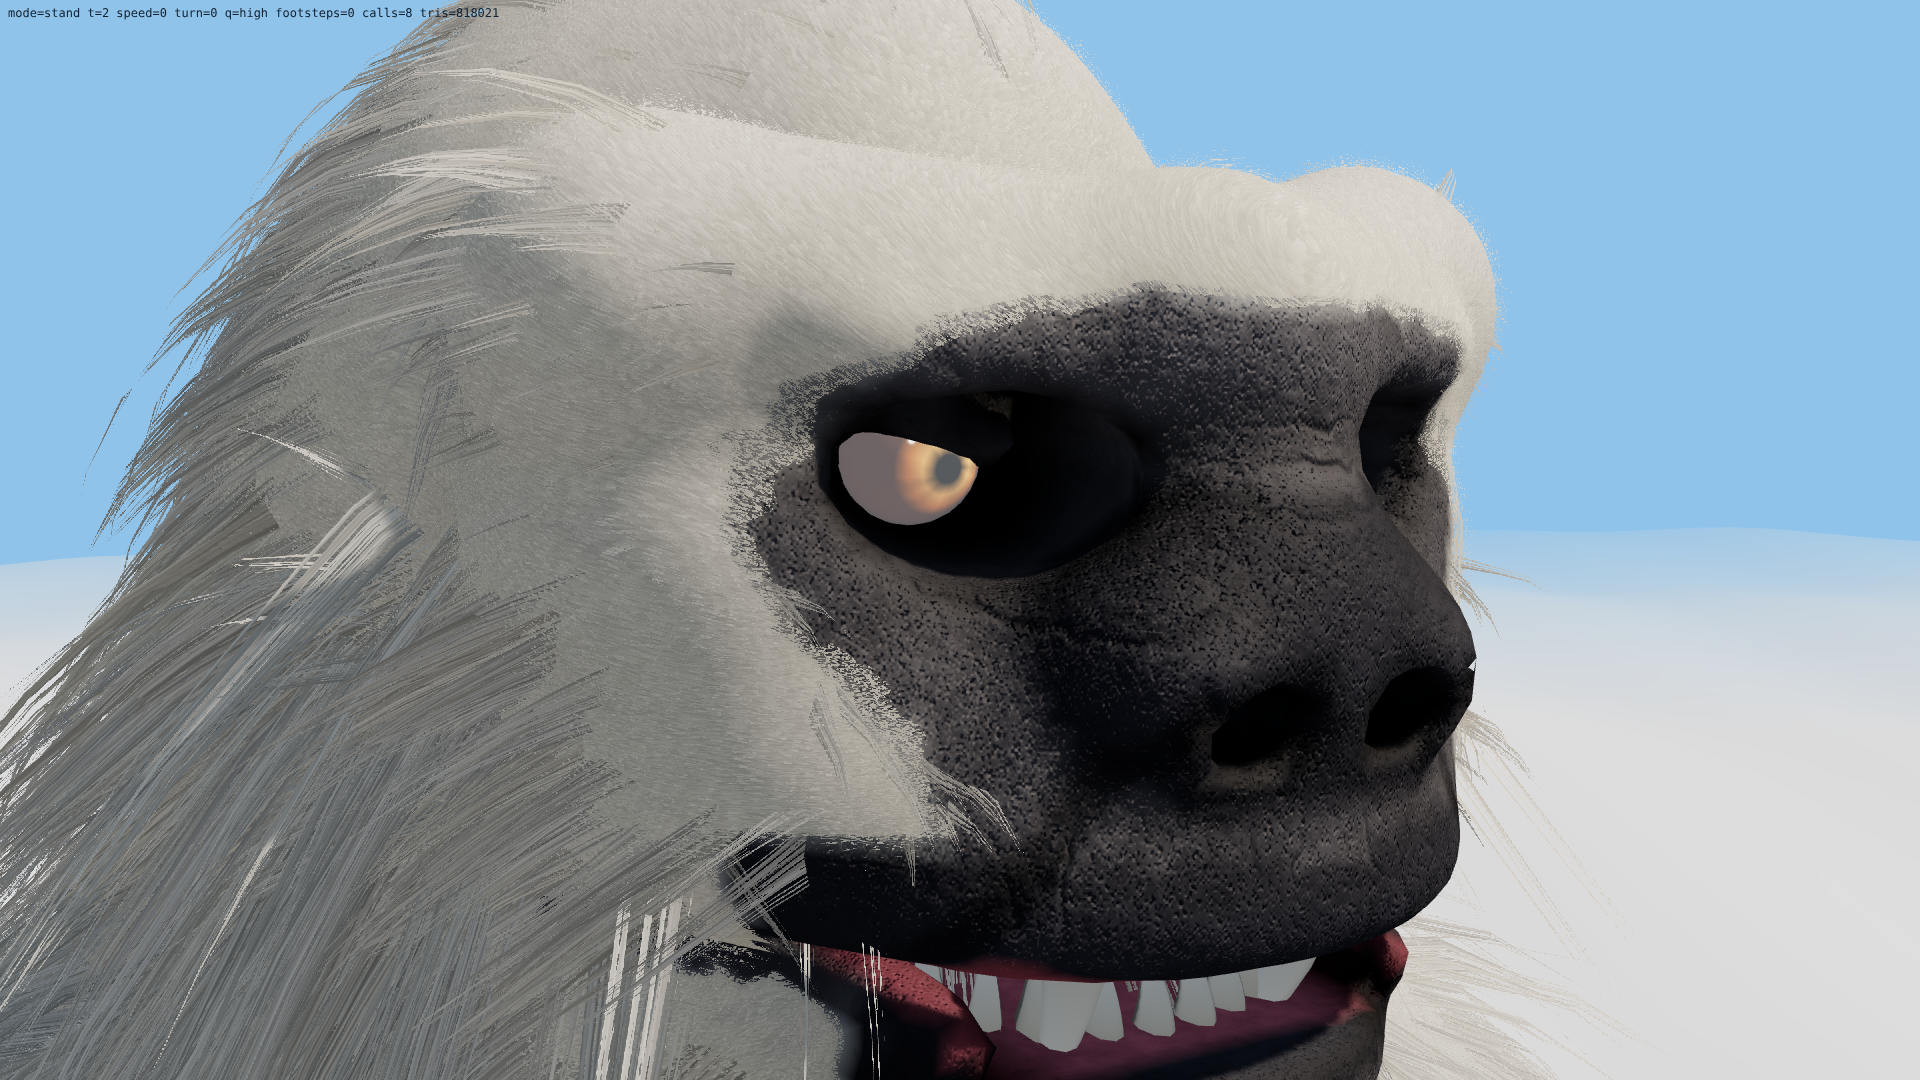
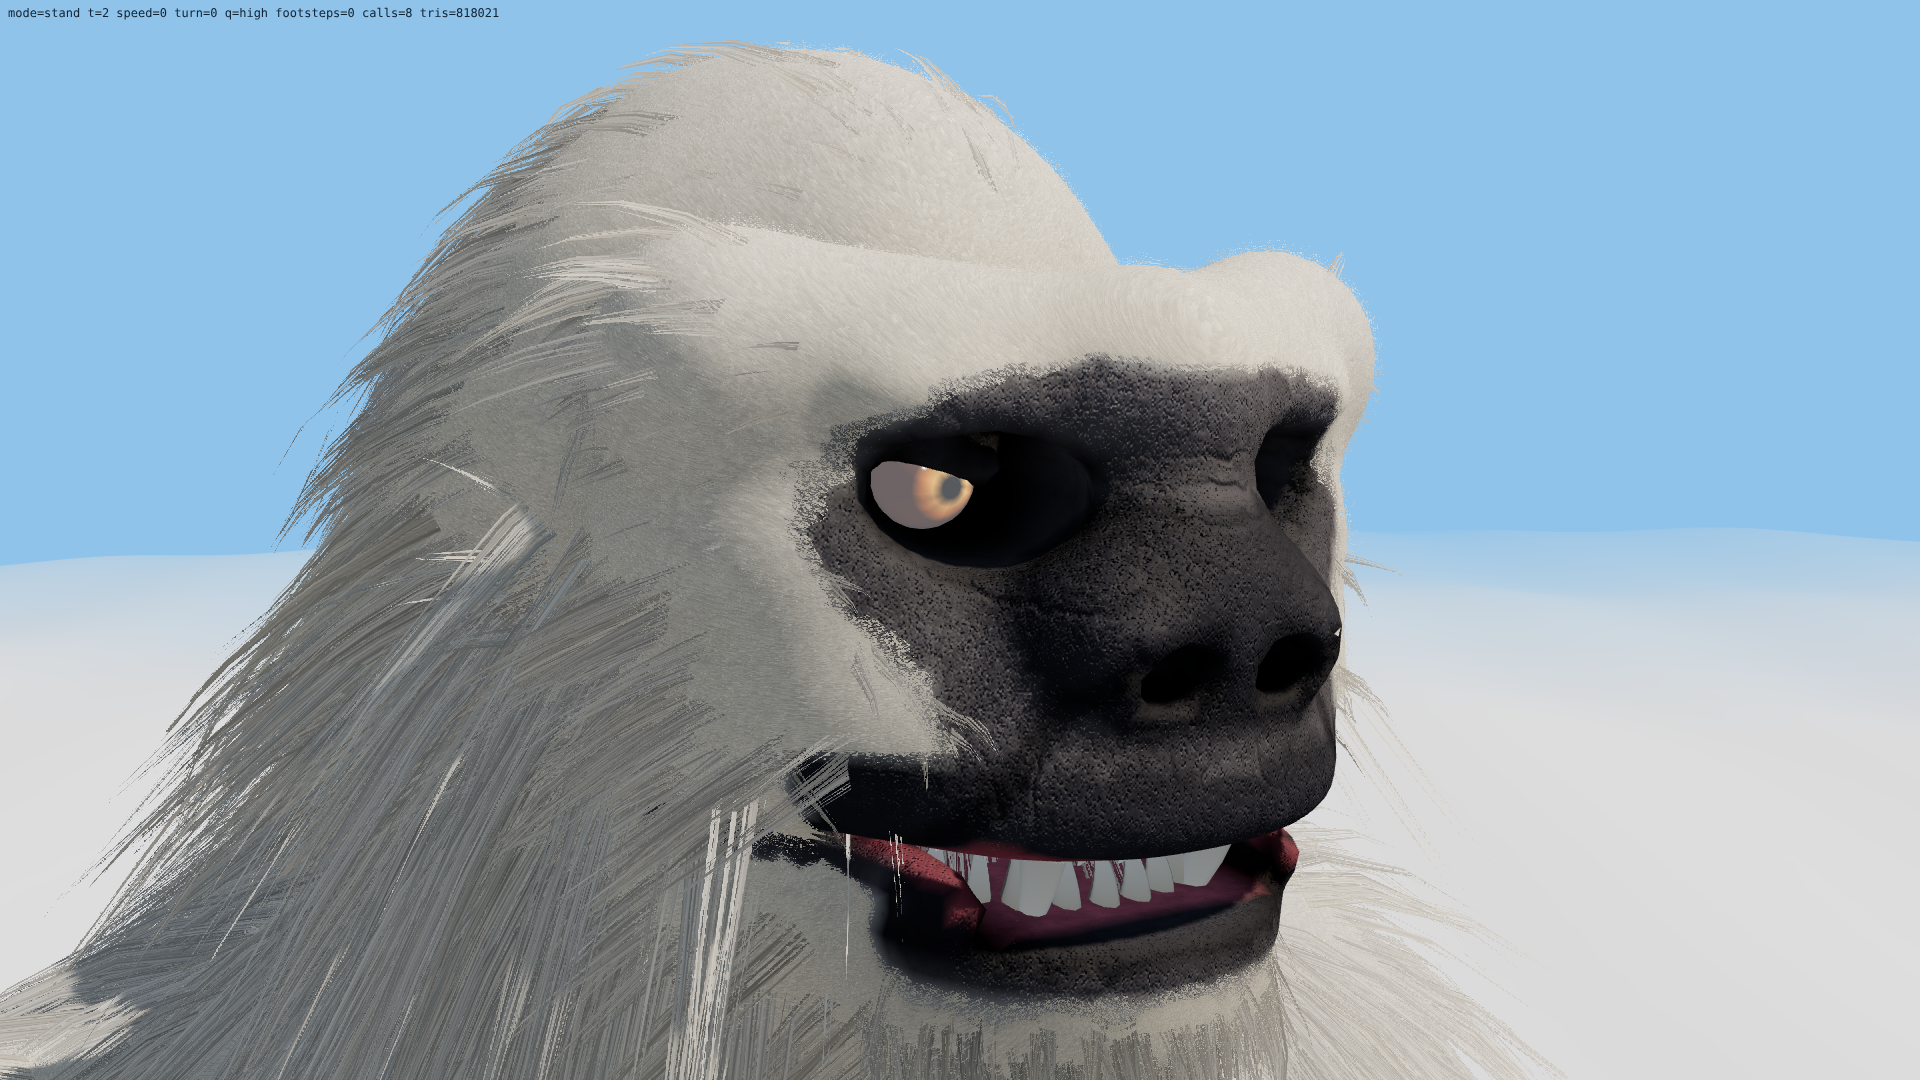
Yeti round 2: bigger head + neck, face camera framing, evidence and notes
Claude-Session: https://claude.ai/code/session_01VcnZmRBSGHHzXyxcV1oKh9

diff --git a/preview/yeti.ts b/preview/yeti.ts
@@ -480,7 +480,7 @@ switch (camName) {
 }
 if (camName.startsWith('face')) {
   // face presets were authored for HEAD_SCALE 1.3: back off with the bigger head (fdist=<k> overrides)
-  const fd = parseFloat(q.get('fdist') ?? '1.22');
+  const fd = parseFloat(q.get('fdist') ?? '1.6');
   camera.position.sub(target).multiplyScalar(fd).add(target);
 }
 if (!camName.startsWith('face') && camName !== 'hand' && camName !== 'foot') {

diff --git a/docs/reviews/pass2/yeti/R2_NOTES.md b/docs/reviews/pass2/yeti/R2_NOTES.md
@@ -28,3 +28,5 @@
 - A16: HEAD_SCALE 1.42->1.55, HEAD_LIFT (0,.1,.04)->(0,.14,.05): visible neck in side view, roar head ~85px vs ~230 shoulders @960. (/tmp/y2/v/mont4.png)
 - preview: face cams back off ×1.22 (fdist=) for the bigger head. tsc clean, vitest 107/107 after A16 change. Next: final 1920 evidence.
 - 1920 evidence: face_front, face_34, body_front, body_side written (22:01). Remaining run via /tmp/y2/final.sh -> /tmp/y2/final.log
+- all 11 r2_*.png written at 1920 (faces with fdist 1.6, now preview default). groundReport seq: worstPenetration 0 cm, worstPlantedFloat 0 cm, steps 12. main tris 723,017 (overlay 818,021).
+- final: tsc clean, vitest rerun (see report). Session 3 done.
